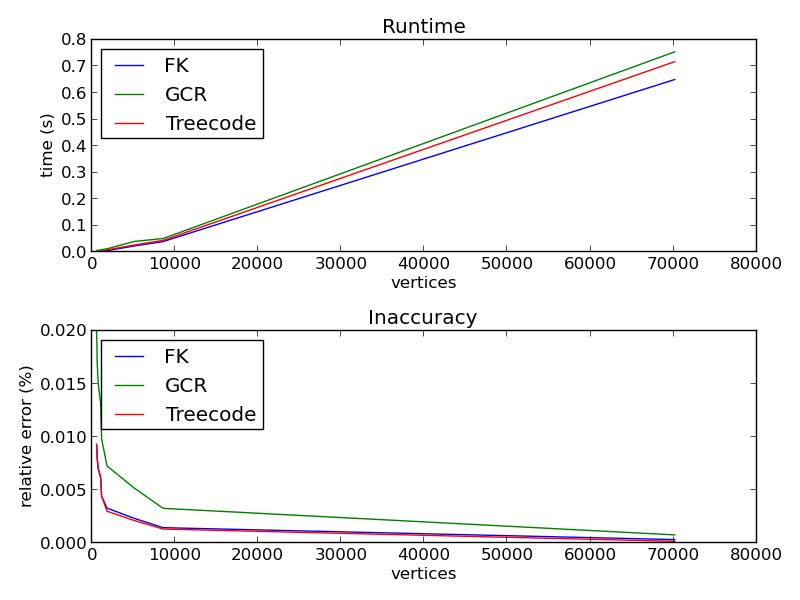
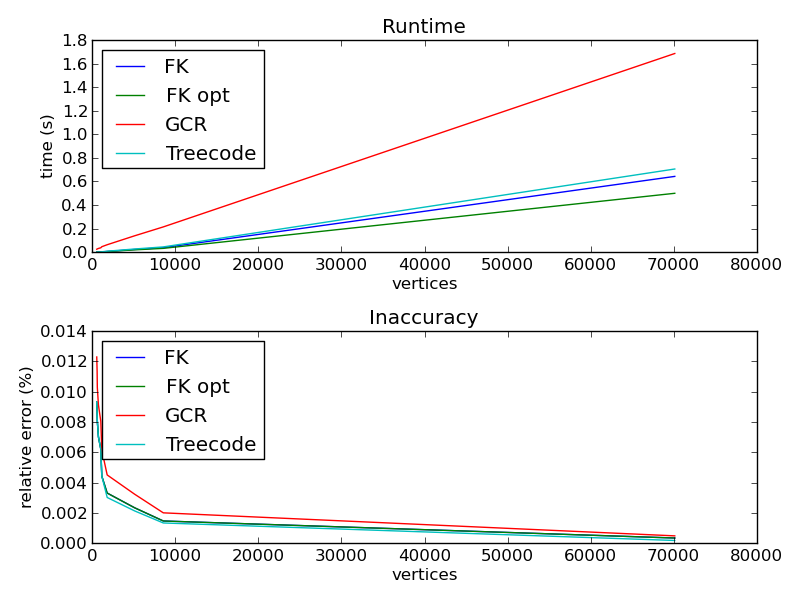
added FK with new parameters to benchmark

Changed region(s): [[0.0312, 0.06, 0.9688, 0.48], [0.0, 0.51, 0.9688, 0.99]]

diff --git a/src/finmag/energies/demag/benchmark.py b/src/finmag/energies/demag/benchmark.py
@@ -13,12 +13,13 @@ Ms = 1
 H_ref = np.array((- Ms / 3.0, 0, 0))
 
 vertices = []
-solvers = ["FK", "GCR", "Treecode"]
-timings = [[], [], []]
-errors = [[], [], []]
+solvers = ["FK", "FK", "GCR", "Treecode"]
+solvers_label = ["FK", "FK opt", "GCR", "Treecode"]
+timings = [[], [], [], []]
+errors = [[], [], [], []]
 
 for maxh in maxhs:
-    mesh = sphere(r=radius, maxh=maxh)
+    mesh = sphere(r=radius, maxh=maxh, directory="meshes")
     vertices.append(mesh.num_vertices())
     S3 = df.VectorFunctionSpace(mesh, "Lagrange", 1)
     m = df.Function(S3)
@@ -26,6 +27,17 @@ for maxh in maxhs:
 
     for i, solver in enumerate(solvers):
         demag = Demag(solver)
+        if solver == "FK":
+            if i == 0:
+                demag.parameters["phi_1_solver"] = "default"
+                demag.parameters["phi_1_preconditioner"] = "default"
+                demag.parameters["phi_2_solver"] = "default"
+                demag.parameters["phi_2_preconditioner"] = "default"
+            if i == 1:
+                demag.parameters["phi_1_solver"] = "cg"
+                demag.parameters["phi_1_preconditioner"] = "ilu"
+                demag.parameters["phi_2_solver"] = "cg"
+                demag.parameters["phi_2_preconditioner"] = "ilu"
         demag.setup(S3, m, Ms, unit_length)
 
         start = time.time()
@@ -42,7 +54,7 @@ fig = plt.figure()
 ax = fig.add_subplot(211)
 ax.set_title("Runtime")
 for i, solver in enumerate(solvers):
-    ax.plot(vertices, timings[i], label=solvers[i])
+    ax.plot(vertices, timings[i], label=solvers_label[i])
 ax.legend(loc=2)
 ax.set_xlabel("vertices")
 ax.set_ylabel("time (s)")
@@ -50,7 +62,7 @@ ax.set_ylabel("time (s)")
 ax = fig.add_subplot(212)
 ax.set_title("Inaccuracy")
 for i, solver in enumerate(solvers):
-    ax.plot(vertices, errors[i], label=solvers[i])
+    ax.plot(vertices, errors[i], label=solvers_label[i])
 ax.legend(loc=2)
 ax.set_xlabel("vertices")
 ax.set_ylabel("relative error (%)")
